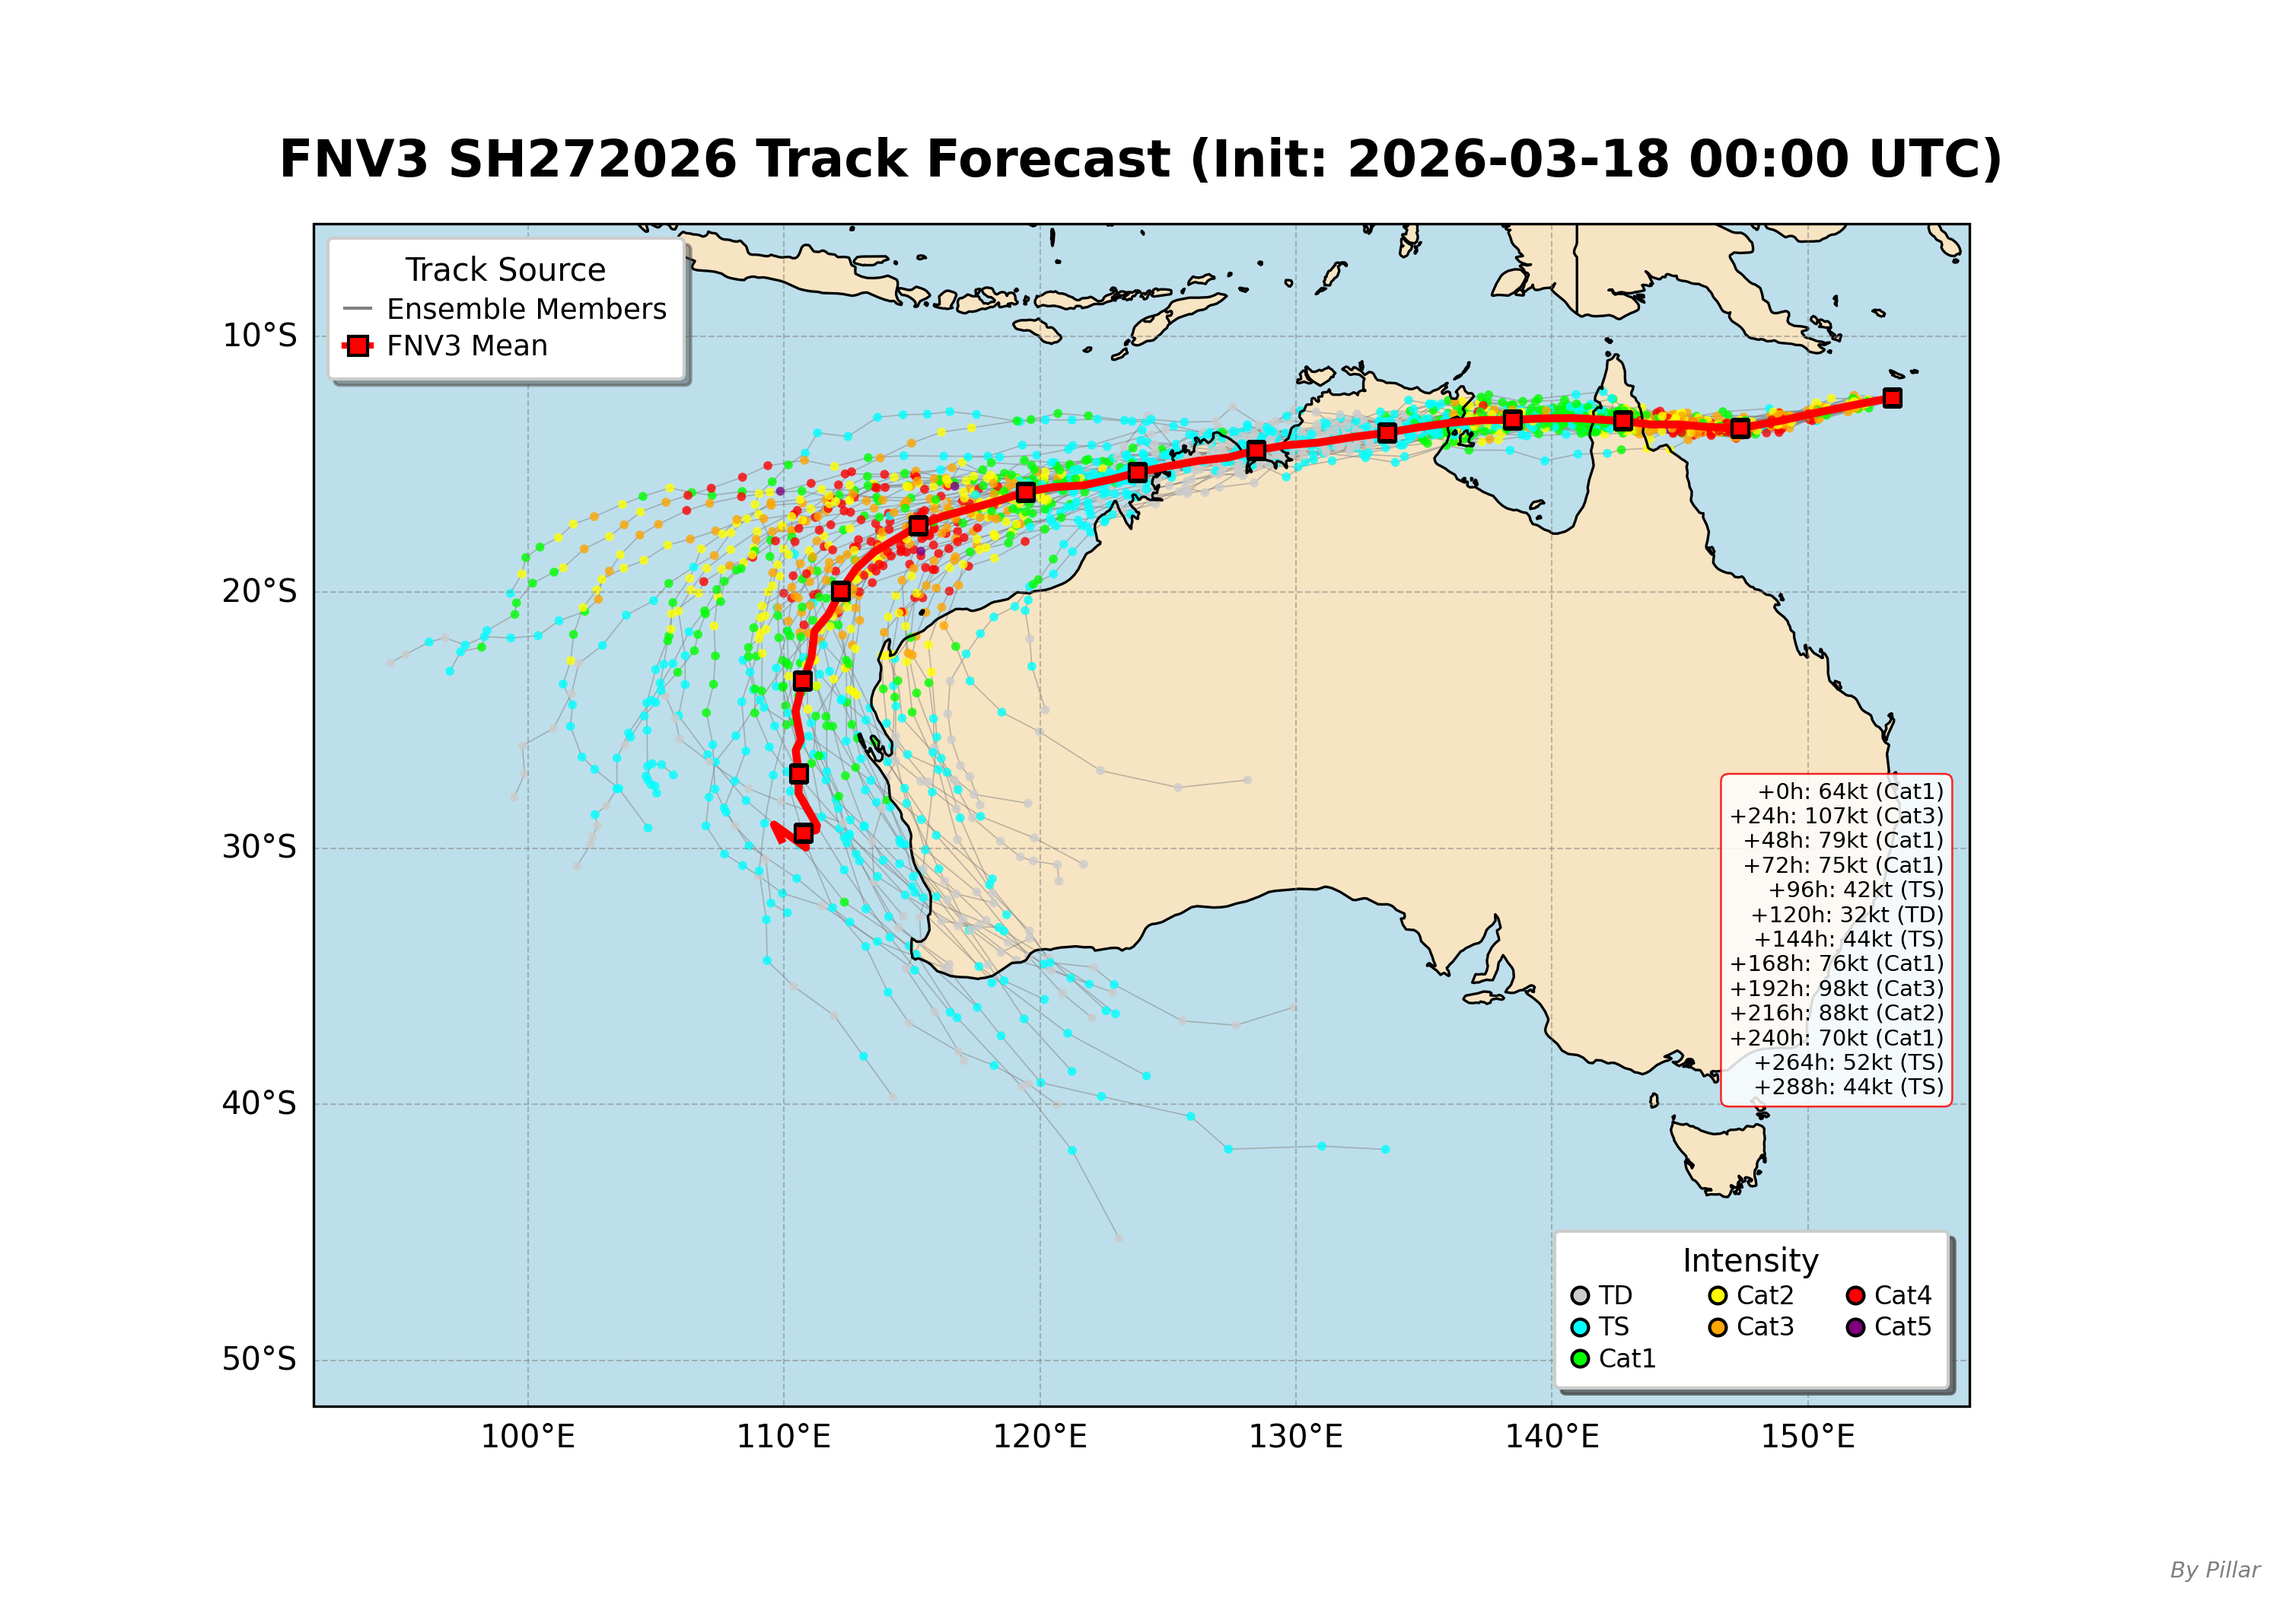
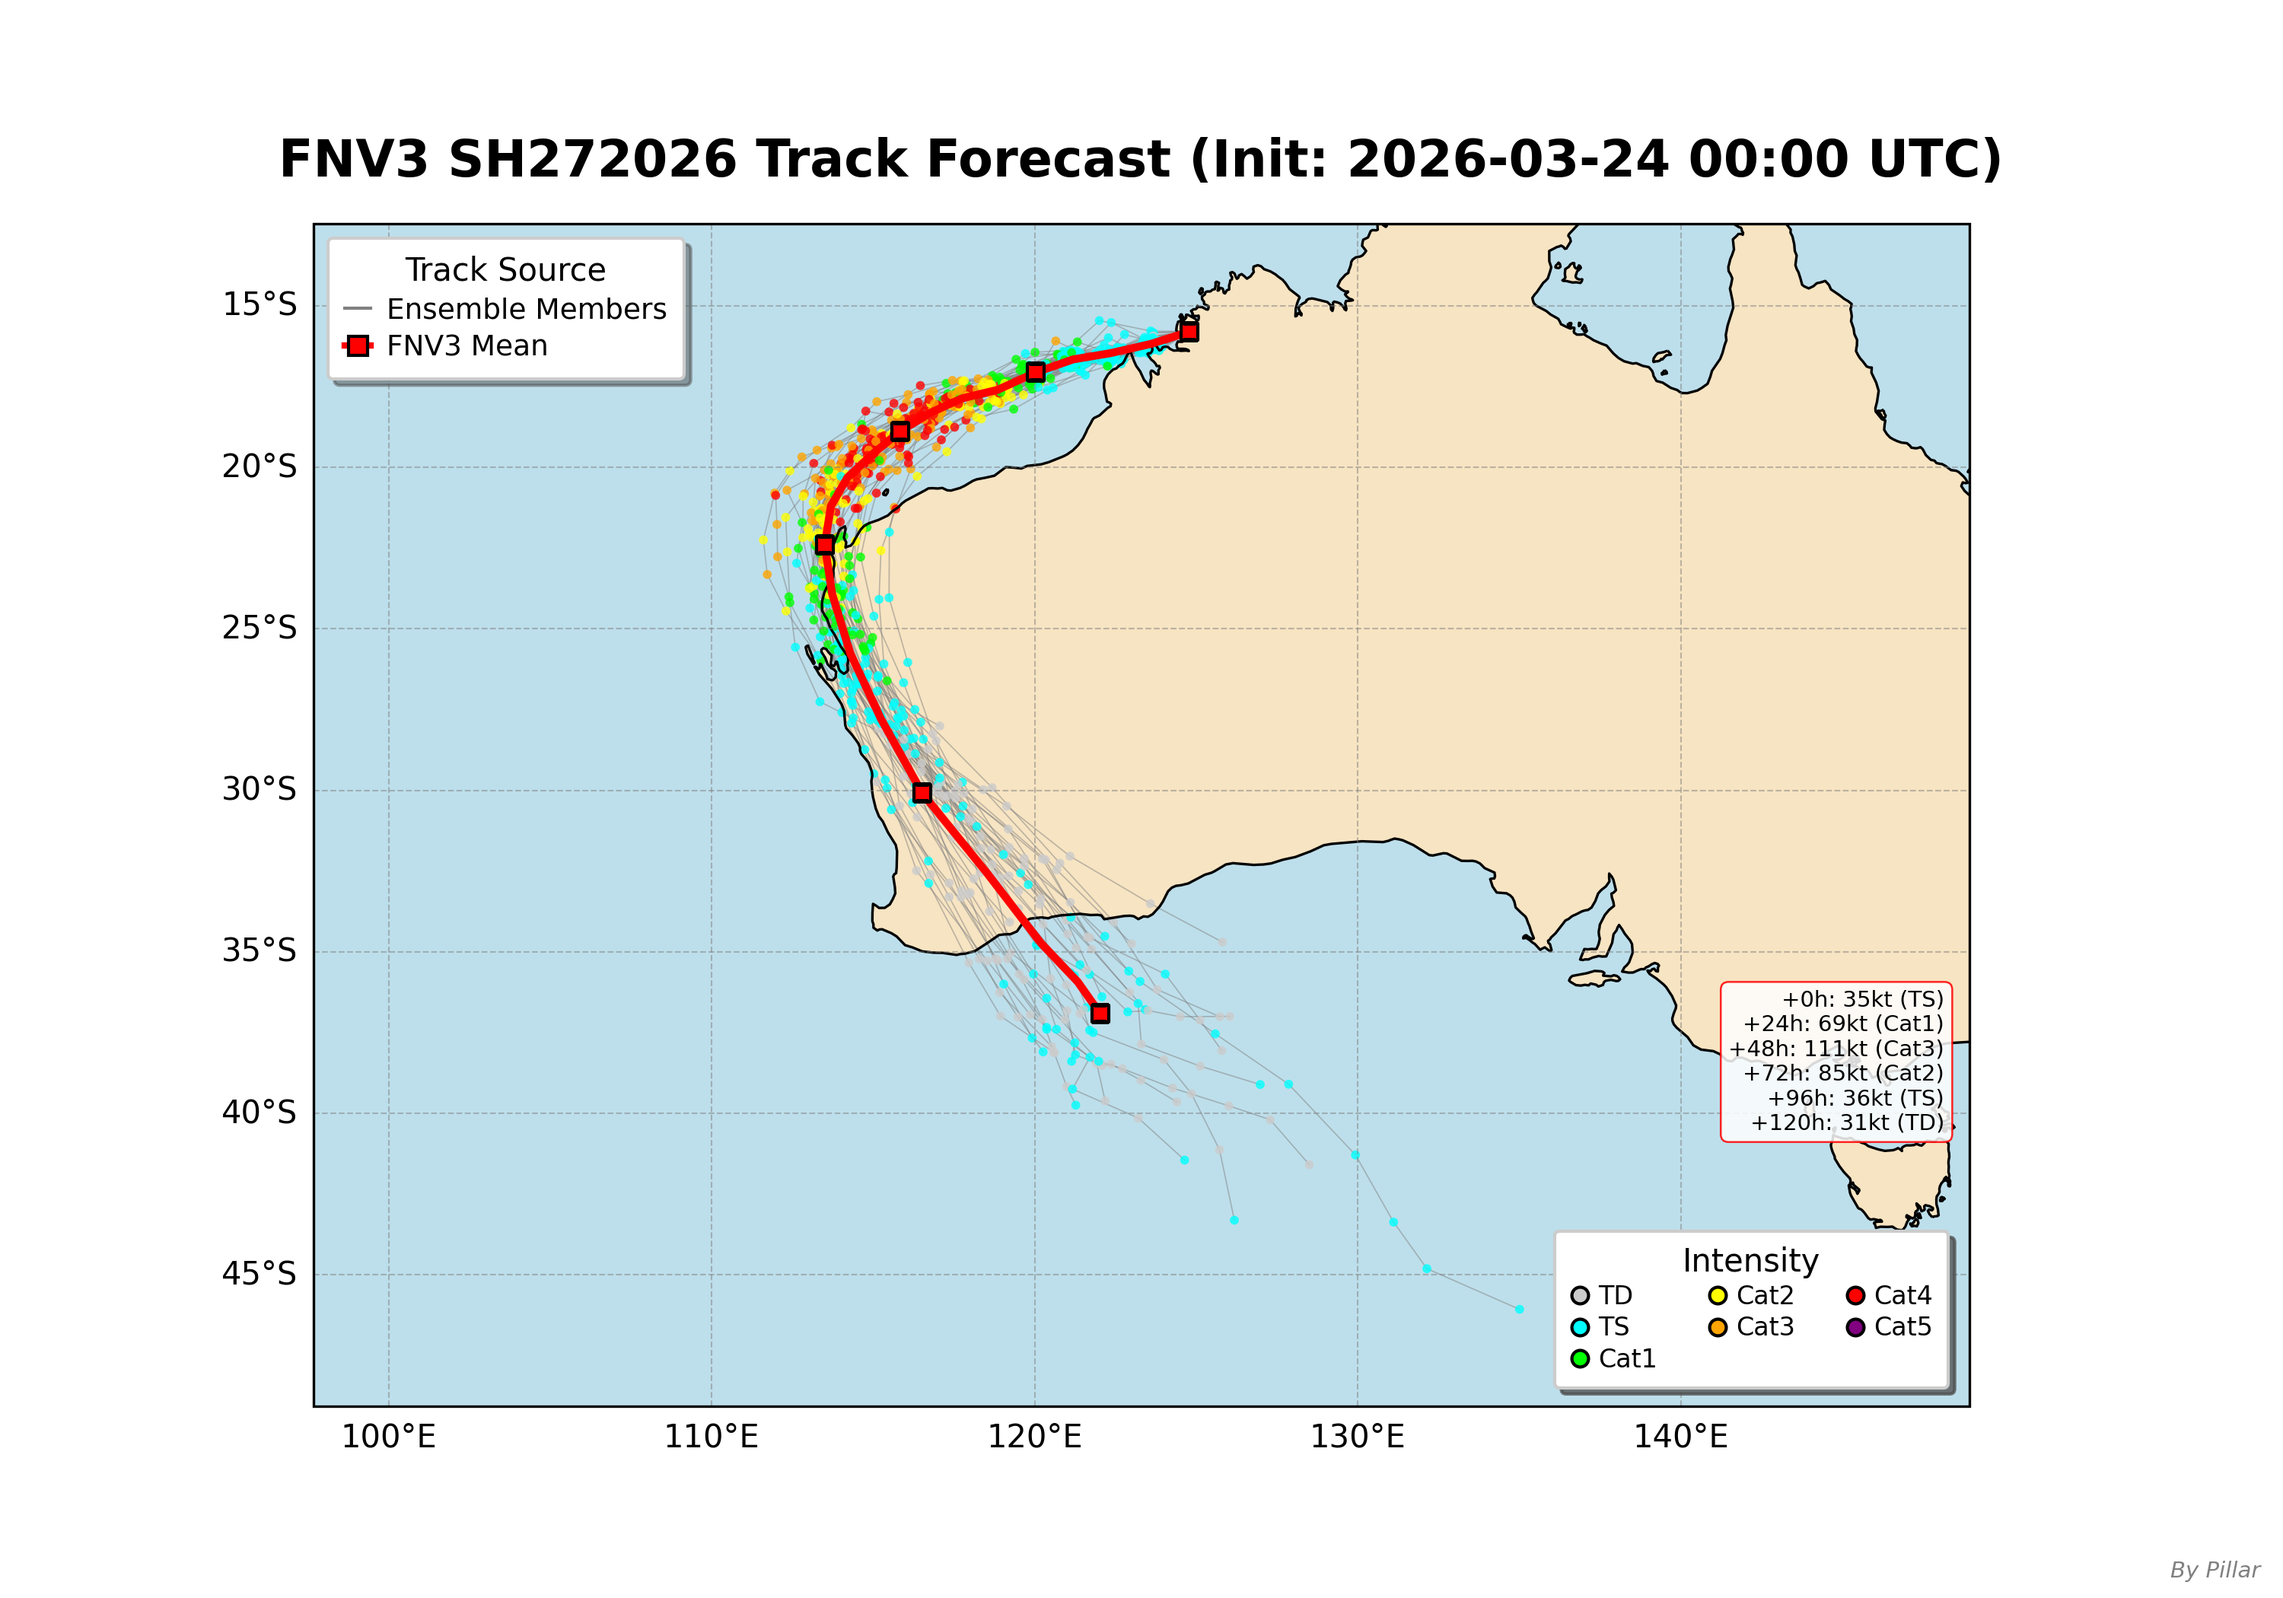
Add files via upload

diff --git a/index.html b/index.html
@@ -689,7 +689,7 @@
                     <div class="subtitle">Real-time FNV3 Ensemble Forecast System</div>
                 </div>
                 <div class="update-badge">
-                    ⏰ Updated: 2026-03-18 15:06:59
+                    ⏰ Updated: 2026-03-24 17:27:04
                 </div>
             </div>
         </header>
@@ -708,15 +708,15 @@
                 <div class="info-grid">
                     <div class="info-item">
                         <div class="info-label">🛰 Current Time</div>
-                        <div class="info-value">171200 Z</div>
+                        <div class="info-value">240600 Z</div>
                     </div>
                     <div class="info-item">
                         <div class="info-label">📍 Current Position</div>
-                        <div class="info-value">12.4°S, 154.8°E</div>
+                        <div class="info-value">16.2°S, 122.8°E</div>
                     </div>
                     <div class="info-item">
                         <div class="info-label">💨 Maximum Wind</div>
-                        <div class="info-value">60 kt</div>
+                        <div class="info-value">40 kt</div>
                     </div>
                     <div class="info-item">
                         <div class="info-label">🔥 Intensity (Saffir-Simpson)</div>
@@ -727,15 +727,15 @@
                     </div>
                     <div class="info-item mobile-wind-radii" style="grid-column: span 2;">
                         <div class="info-label">🌀 34 kt Wind Radii</div>
-                        <div class="info-value">NE: 050 / SE: 070 / SW: 065 / NW: 050 nm</div>
+                        <div class="info-value">NE: 100 / SE: 000 / SW: 070 / NW: 100 nm</div>
                     </div>
                     <div class="info-item mobile-wind-radii" style="grid-column: span 2;">
                         <div class="info-label">🌀 50 kt Wind Radii</div>
-                        <div class="info-value">NE: 025 / SE: 035 / SW: 035 / NW: 035 nm</div>
+                        <div class="info-value">NE: 050 / SE: 020 / SW: 040 / NW: 050 nm</div>
                     </div>
                     <div class="info-item mobile-wind-radii" style="grid-column: span 2;">
                         <div class="info-label">🌀 64 kt Wind Radii</div>
-                        <div class="info-value">NE: 020 / SE: 020 / SW: 020 / NW: 020 nm</div>
+                        <div class="info-value">NE: 030 / SE: 010 / SW: 020 / NW: 030 nm</div>
                     </div>
                 </div>
 
@@ -790,9 +790,9 @@
                         <button class="control-btn" onclick="pauseAnimation('SH272026')">⏸ Pause</button>
                         <button class="control-btn" onclick="resetAnimation('SH272026')">⟲ Reset</button>
                         <div class="progress-bar-container">
-                            <input type="range" id="progress-SH272026" class="progress-slider" min="0" max="52" value="0" 
+                            <input type="range" id="progress-SH272026" class="progress-slider" min="0" max="26" value="0" 
                                    oninput="seekFrame('SH272026', this.value)">
-                            <span id="frame-counter-SH272026" class="frame-counter">1/53</span>
+                            <span id="frame-counter-SH272026" class="frame-counter">1/27</span>
                         </div>
                     </div>
                 </div>
